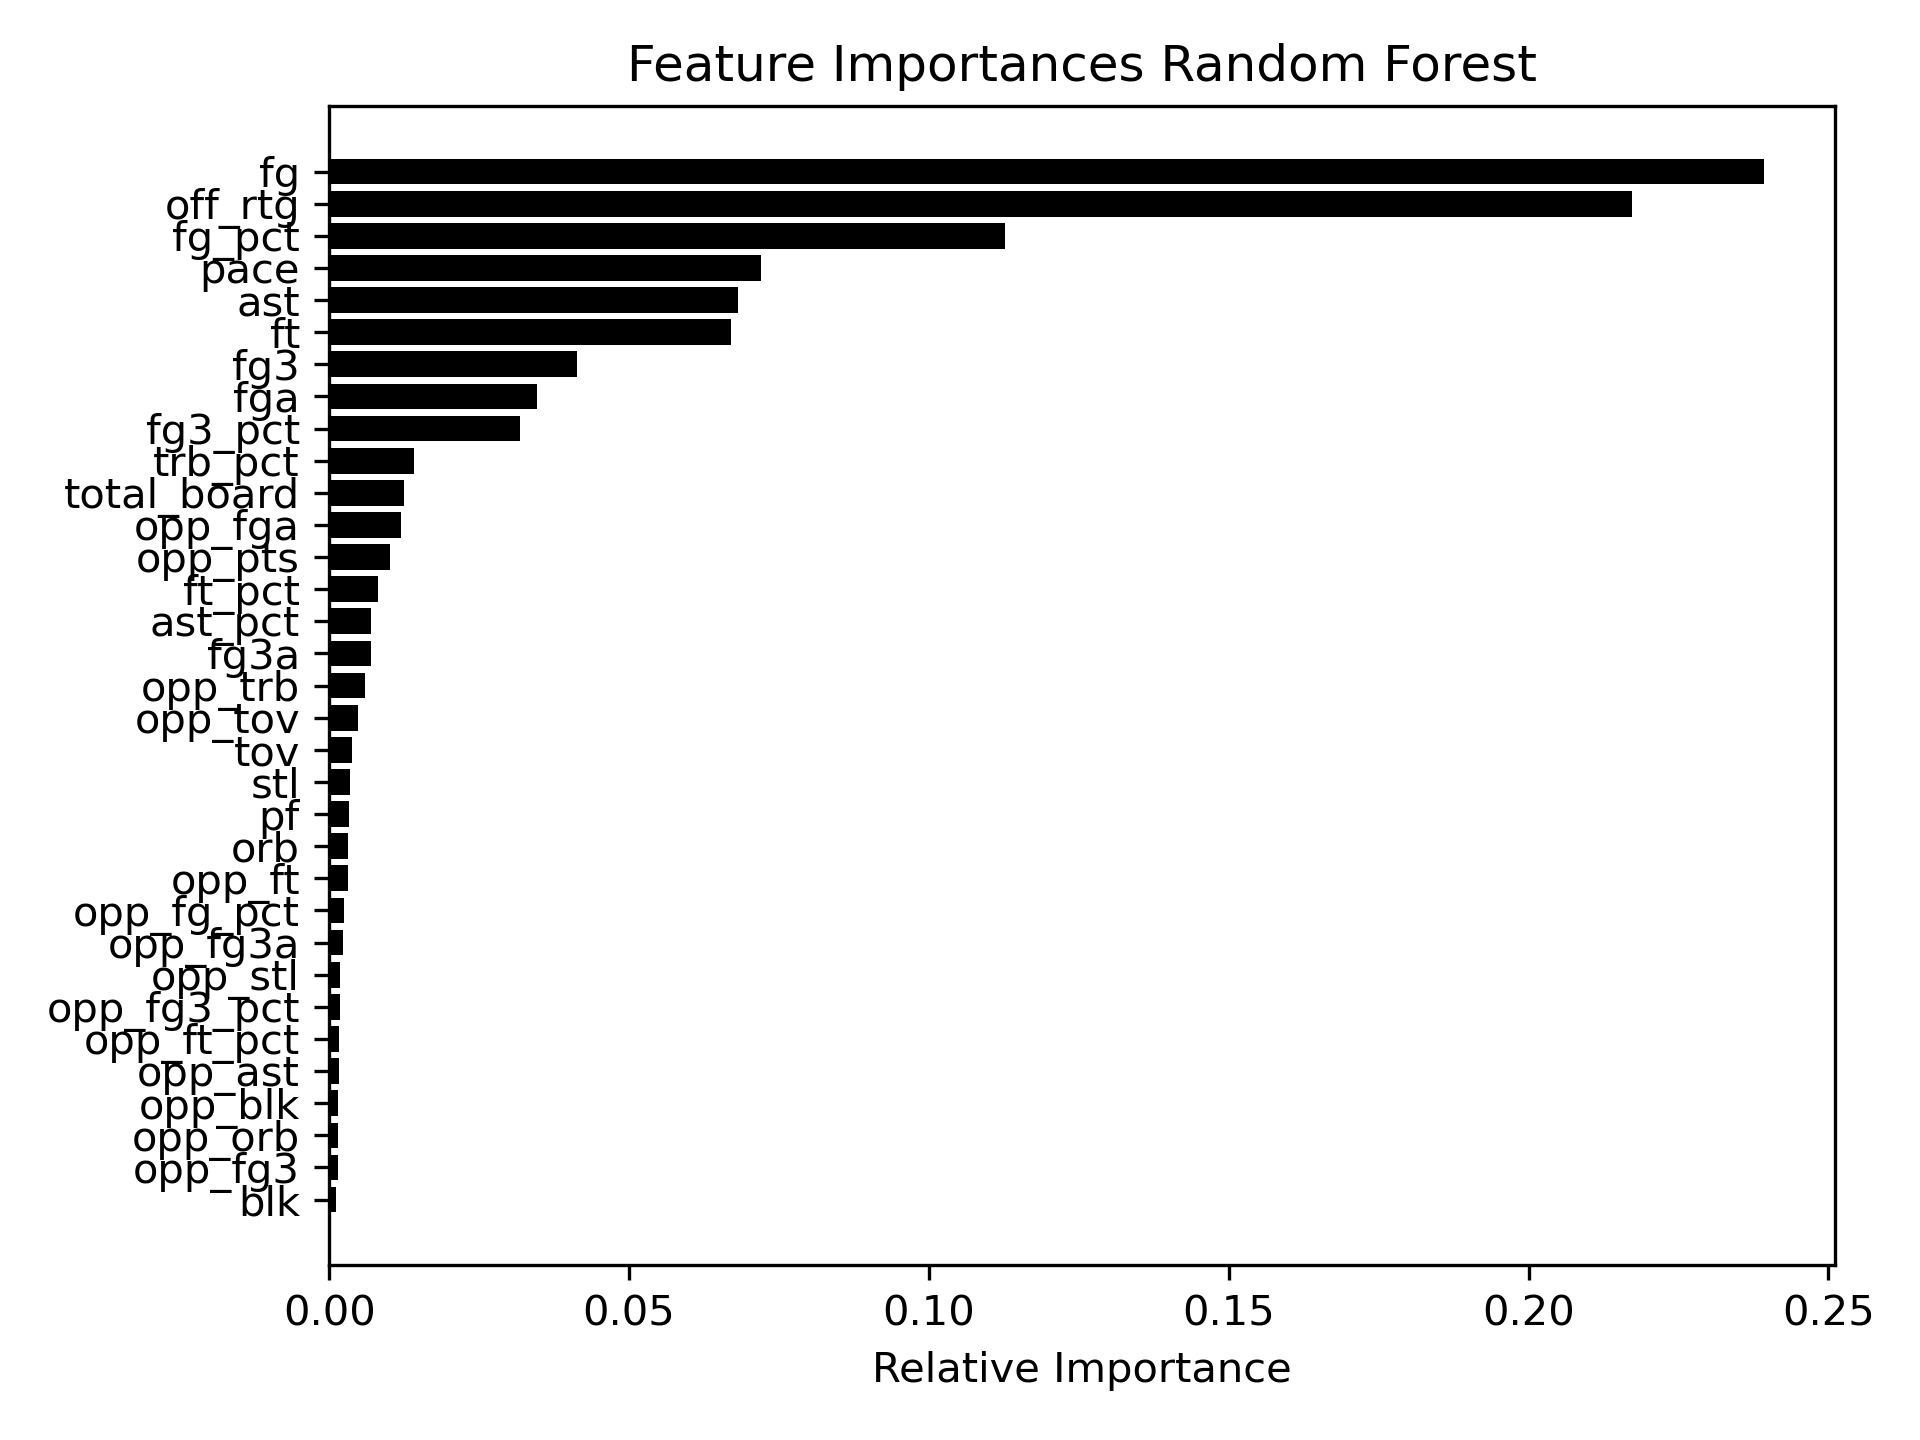
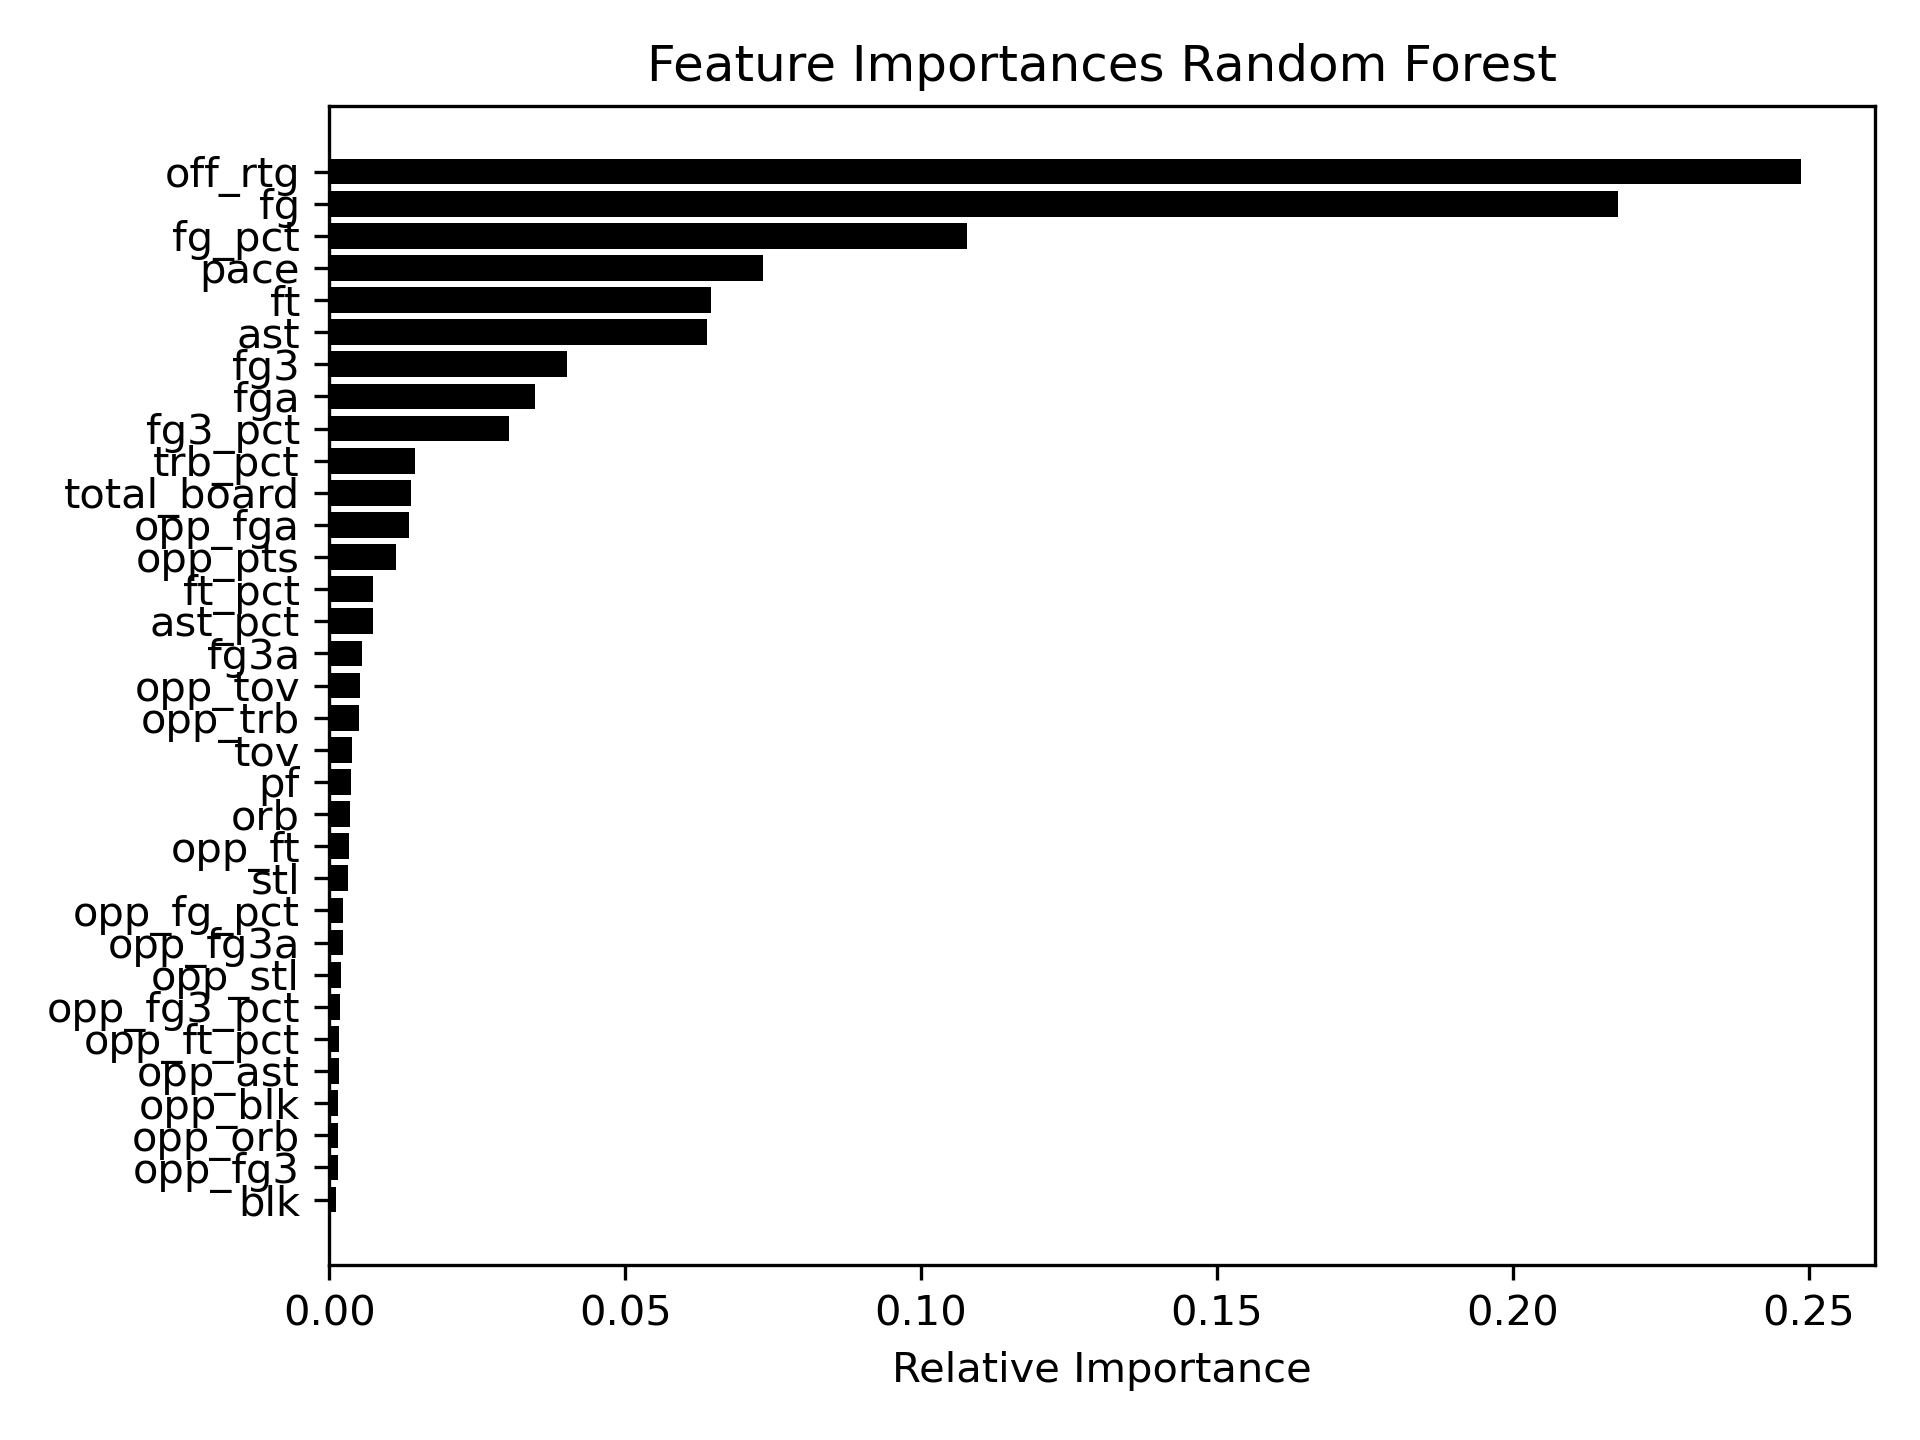
FIX: fitted and tuned model is now saved and loaded in

diff --git a/cbb_ml.py b/cbb_ml.py
@@ -19,6 +19,8 @@ import matplotlib.pyplot as plt
 import seaborn as sns
 from sys import argv
 from sklearn.metrics import mean_squared_error, r2_score
+from sklearn.model_selection import cross_val_score, KFold
+import pickle
 class cbb_regressor():
     def __init__(self):
         print('initialize class cbb_regressor')
@@ -131,22 +133,37 @@ class cbb_regressor():
                 'n_estimators': range(100,500,100),
                 # 'min_samples_split': np.arange(2, 5, 1, dtype=int),
                 'max_features' : [1, 'sqrt', 'log2'],
-                'max_depth': np.arange(3,cols,1)
+                'max_depth': np.arange(3,cols,1),
+                'min_samples_leaf': np.arange(1,3,1)
                 }
-            #['accuracy', 'adjusted_mutual_info_score', 'adjusted_rand_score', 'average_precision', 'balanced_accuracy', 'completeness_score', 'explained_variance', 'f1', 'f1_macro', 'f1_micro', 'f1_samples', 'f1_weighted', 'fowlkes_mallows_score', 'homogeneity_score', 'jaccard', 'jaccard_macro', 'jaccard_micro', 'jaccard_samples', 'jaccard_weighted', 'matthews_corrcoef', 'max_error', 'mutual_info_score', 'neg_brier_score', 'neg_log_loss', 'neg_mean_absolute_error', 'neg_mean_absolute_percentage_error', 'neg_mean_gamma_deviance', 'neg_mean_poisson_deviance', 'neg_mean_squared_error', 'neg_mean_squared_log_error', 'neg_median_absolute_error', 'neg_root_mean_squared_error', 'normalized_mutual_info_score', 'precision', 'precision_macro', 'precision_micro', 'precision_samples', 'precision_weighted', 'r2', 'rand_score', 'recall', 'recall_macro', 'recall_micro', 'recall_samples', 'recall_weighted', 'roc_auc', 'roc_auc_ovo', 'roc_auc_ovo_weighted', 'roc_auc_ovr', 'roc_auc_ovr_weighted', 'top_k_accuracy', 'v_measure_score']
-            clf_rand = GridSearchCV(RandForclass, Rand_perm, scoring=['neg_root_mean_squared_error','explained_variance'],
+            #['accuracy', 'adjusted_mutual_info_score', 'adjusted_rand_score', 
+            # average_precision', 'balanced_accuracy', 'completeness_score', 'explained_variance', 
+            # 'f1', 'f1_macro', 'f1_micro', 'f1_samples', 'f1_weighted', 'fowlkes_mallows_score', 
+            # 'homogeneity_score', 'jaccard', 'jaccard_macro', 'jaccard_micro', 'jaccard_samples', 
+            # 'jaccard_weighted', 'matthews_corrcoef', 'max_error', 'mutual_info_score', 'neg_brier_score',
+            # 'neg_log_loss', 'neg_mean_absolute_error', 'neg_mean_absolute_percentage_error', 
+            # 'neg_mean_gamma_deviance', 'neg_mean_poisson_deviance', 'neg_mean_squared_error', 
+            # 'neg_mean_squared_log_error', 'neg_median_absolute_error', 'neg_root_mean_squared_error', 
+            # 'normalized_mutual_info_score', 'precision', 'precision_macro', 'precision_micro', 'precision_samples', 'precision_weighted', 'r2', 'rand_score', 'recall', 'recall_macro', 'recall_micro', 'recall_samples', 'recall_weighted', 'roc_auc', 'roc_auc_ovo', 'roc_auc_ovo_weighted', 'roc_auc_ovr', 'roc_auc_ovr_weighted', 'top_k_accuracy', 'v_measure_score']
+            clf_rand = GridSearchCV(RandForclass, Rand_perm, scoring=['neg_root_mean_squared_error','explained_variance'],cv=5
                                refit='neg_root_mean_squared_error',verbose=4, n_jobs=-1)
-            search_rand = clf_rand.fit(self.x_train,self.y_train)
-            #TODO: Write best params to file
-            #with open('data.yml', 'w') as outfile:
-                # yaml.dump(data, outfile, default_flow_style=False)
+            search_rand = clf_rand.fit(self.x_train,self.y_train)# save
+            #Write fitted and tuned model to file
+            with open('randomForestModelTuned.pkl','wb') as f:
+                pickle.dump(search_rand,f)
             print('RandomForestRegressor - best params: ',search_rand.best_params_)
         else:
-            print('fit to tuned Random Forest Regressor')
-            self.RandForRegressor = RandomForestRegressor(criterion='squared_error', max_depth=20, max_features='log2', n_estimators=300)
-            self.RandForRegressor.fit(self.x_train,self.y_train)
+            print('Load tuned Random Forest Regressor')
+            # load f
+            with open('randomForestModelTuned.pkl', 'rb') as f:
+                self.RandForRegressor = pickle.load(f)
             print('RMSE: ',mean_squared_error(self.RandForRegressor.predict(self.x_test),self.y_test,squared=False))
             print('R2 score: ',r2_score(self.RandForRegressor.predict(self.x_test),self.y_test))
+            # self.RandForRegressor = RandomForestRegressor(criterion='squared_error', 
+            #                                               max_depth=20,
+            #                                               max_features='log2', 
+            #                                               n_estimators=300,
+            #                                               min_samples_leaf=3) #changing min_samples_leaf from 1 to 3, as increasing this will reduce overfitting       
     def multi_layer_perceptron(self):
         pass
     def keras_regressor_analysis(self):
